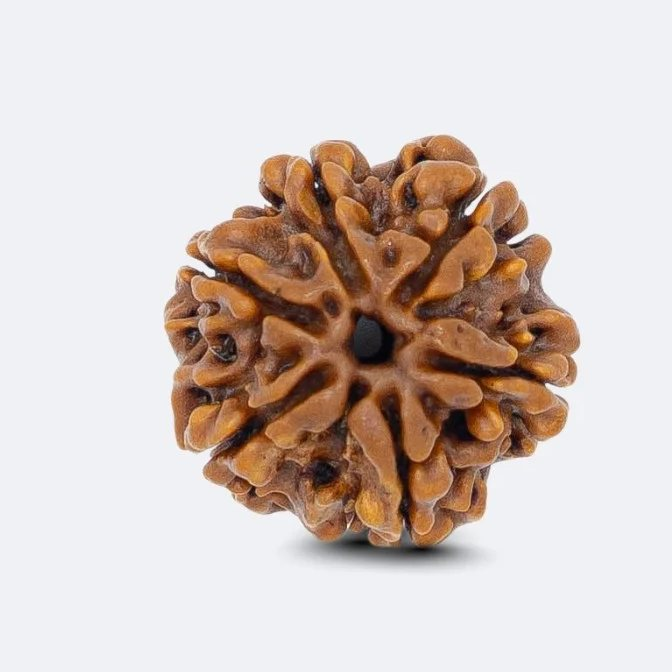
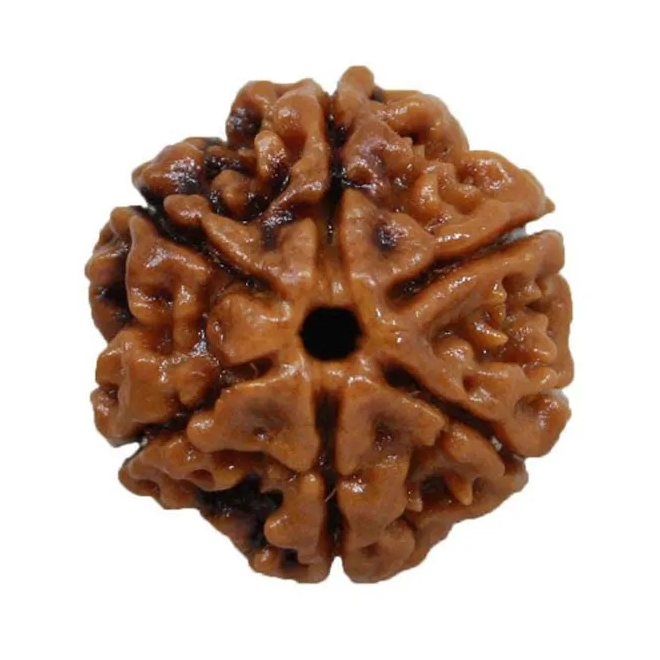
Use clearer 6 Mukhi photo
Claude-Session: https://claude.ai/code/session_01FL2h89aXXk312Y3KGAUX9X

diff --git a/collection.html b/collection.html
@@ -72,7 +72,7 @@
         </div>
       </article>
       <article class="bead-card eng reveal" data-tilt data-bead data-base="1500" data-add="1000" data-name="6 Mukhi" data-tier="Energized" data-sub-plain="Energized bead only" data-sub-locket="Energized bead in Panchadhatu locket">
-        <figure class="card-photo"><img class="pack" style="background:#F0F1F5" src="assets/img/bead-6mukhi.jpg" alt="6 Mukhi Rudraksha bead" loading="lazy"></figure>
+        <figure class="card-photo"><img class="pack" style="background:#FFFFFF" src="assets/img/bead-6mukhi.jpg" alt="6 Mukhi Rudraksha bead" loading="lazy"></figure>
         <span class="devnum">६</span>
         <div class="sub">6 Mukhi · Kartikeya · Venus</div>
         <h3>The Commander's Focus</h3>
@@ -153,7 +153,7 @@
         </details>
       </article>
       <article class="bead-card premium reveal" data-tilt data-bead data-base="10000" data-add="1000" data-name="6 Mukhi" data-tier="Activated" data-sub-plain="Consecrated · Guru's dakshina included" data-sub-locket="Smaller consecrated bead in Panchadhatu locket">
-        <figure class="card-photo"><img class="pack" style="background:#F0F1F5" src="assets/img/bead-6mukhi.jpg" alt="6 Mukhi Rudraksha bead" loading="lazy"></figure>
+        <figure class="card-photo"><img class="pack" style="background:#FFFFFF" src="assets/img/bead-6mukhi.jpg" alt="6 Mukhi Rudraksha bead" loading="lazy"></figure>
         <span class="devnum">६</span>
         <div class="sub">6 Mukhi · Kartikeya · Venus</div>
         <h3>The Commander's Focus</h3>

diff --git a/index.html b/index.html
@@ -137,7 +137,7 @@
         </details>
       </article>
       <article class="bead-card reveal" data-tilt>
-        <figure class="card-photo"><img class="pack" style="background:#F0F1F5" src="assets/img/bead-6mukhi.jpg" alt="6 Mukhi Rudraksha bead" loading="lazy"></figure>
+        <figure class="card-photo"><img class="pack" style="background:#FFFFFF" src="assets/img/bead-6mukhi.jpg" alt="6 Mukhi Rudraksha bead" loading="lazy"></figure>
         <span class="devnum">६</span>
         <div class="sub">6 Mukhi · Kartikeya · Venus</div>
         <h3>The Commander's Focus</h3>

diff --git a/build.py b/build.py
@@ -124,7 +124,7 @@ BEADS = {
             desc="Ruled by Kartikeya, the six-faced commander of the divine armies. Traditionally worn to build willpower, focus and confidence, with Shukra's grace associated with charm and harmony.",
             chips=["Deity · Kartikeya", "Planet · Shukra", "Element · Earth"],
             fits=["Seek focus and discipline in studies or career", "Face competition or scattered willpower", "Have Shukra afflictions or seek confidence"],
-            img='<img class="pack" style="background:#F0F1F5" src="assets/img/bead-6mukhi.jpg" alt="6 Mukhi Rudraksha bead" loading="lazy">',
+            img='<img class="pack" style="background:#FFFFFF" src="assets/img/bead-6mukhi.jpg" alt="6 Mukhi Rudraksha bead" loading="lazy">',
             legend_t="Ancient Legend · Six Mothers, One Son",
             legend="When Shiva's radiance fell into the reeds, six sparks became six infants, each cradled by one of the Krittika mothers. Parvati gathered them in one embrace — and they became a single child with six faces: Shanmukha, who would command the armies of the gods."),
     7: dict(num="७", name="7 Mukhi", sub="7 Mukhi · Mahalakshmi · Saturn", title="The Grace That Opens",
